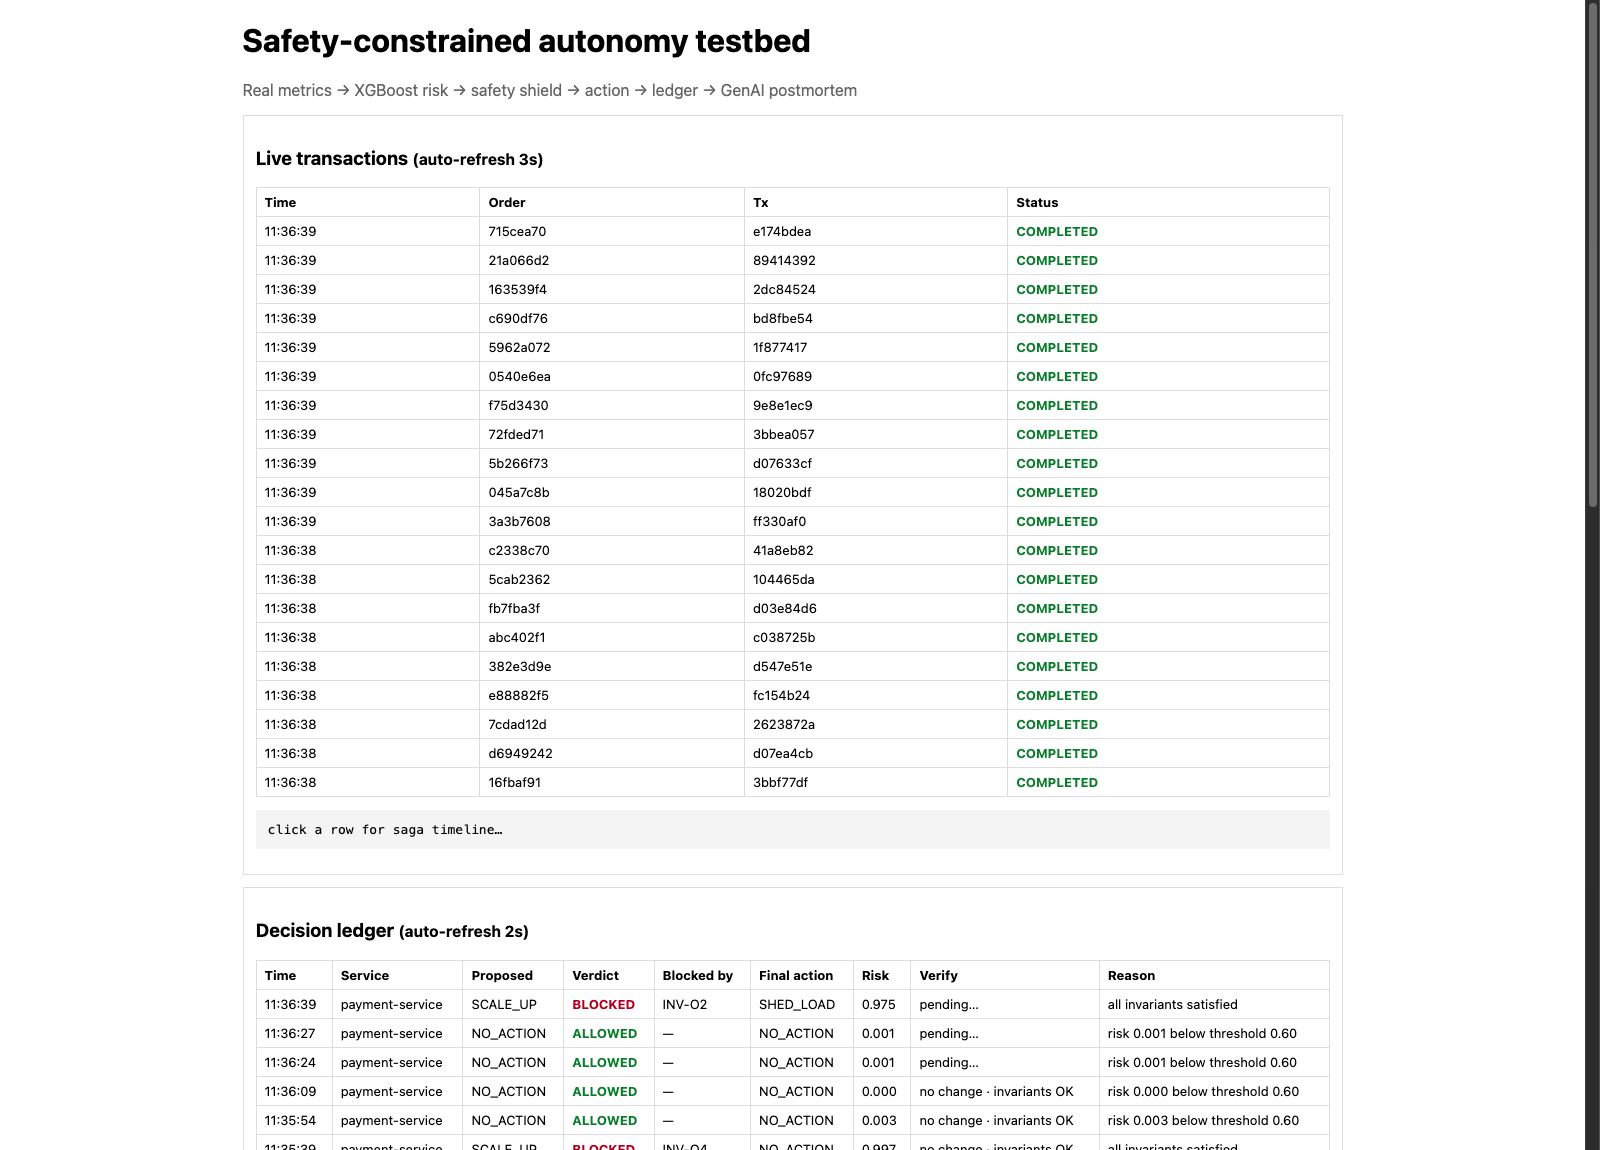
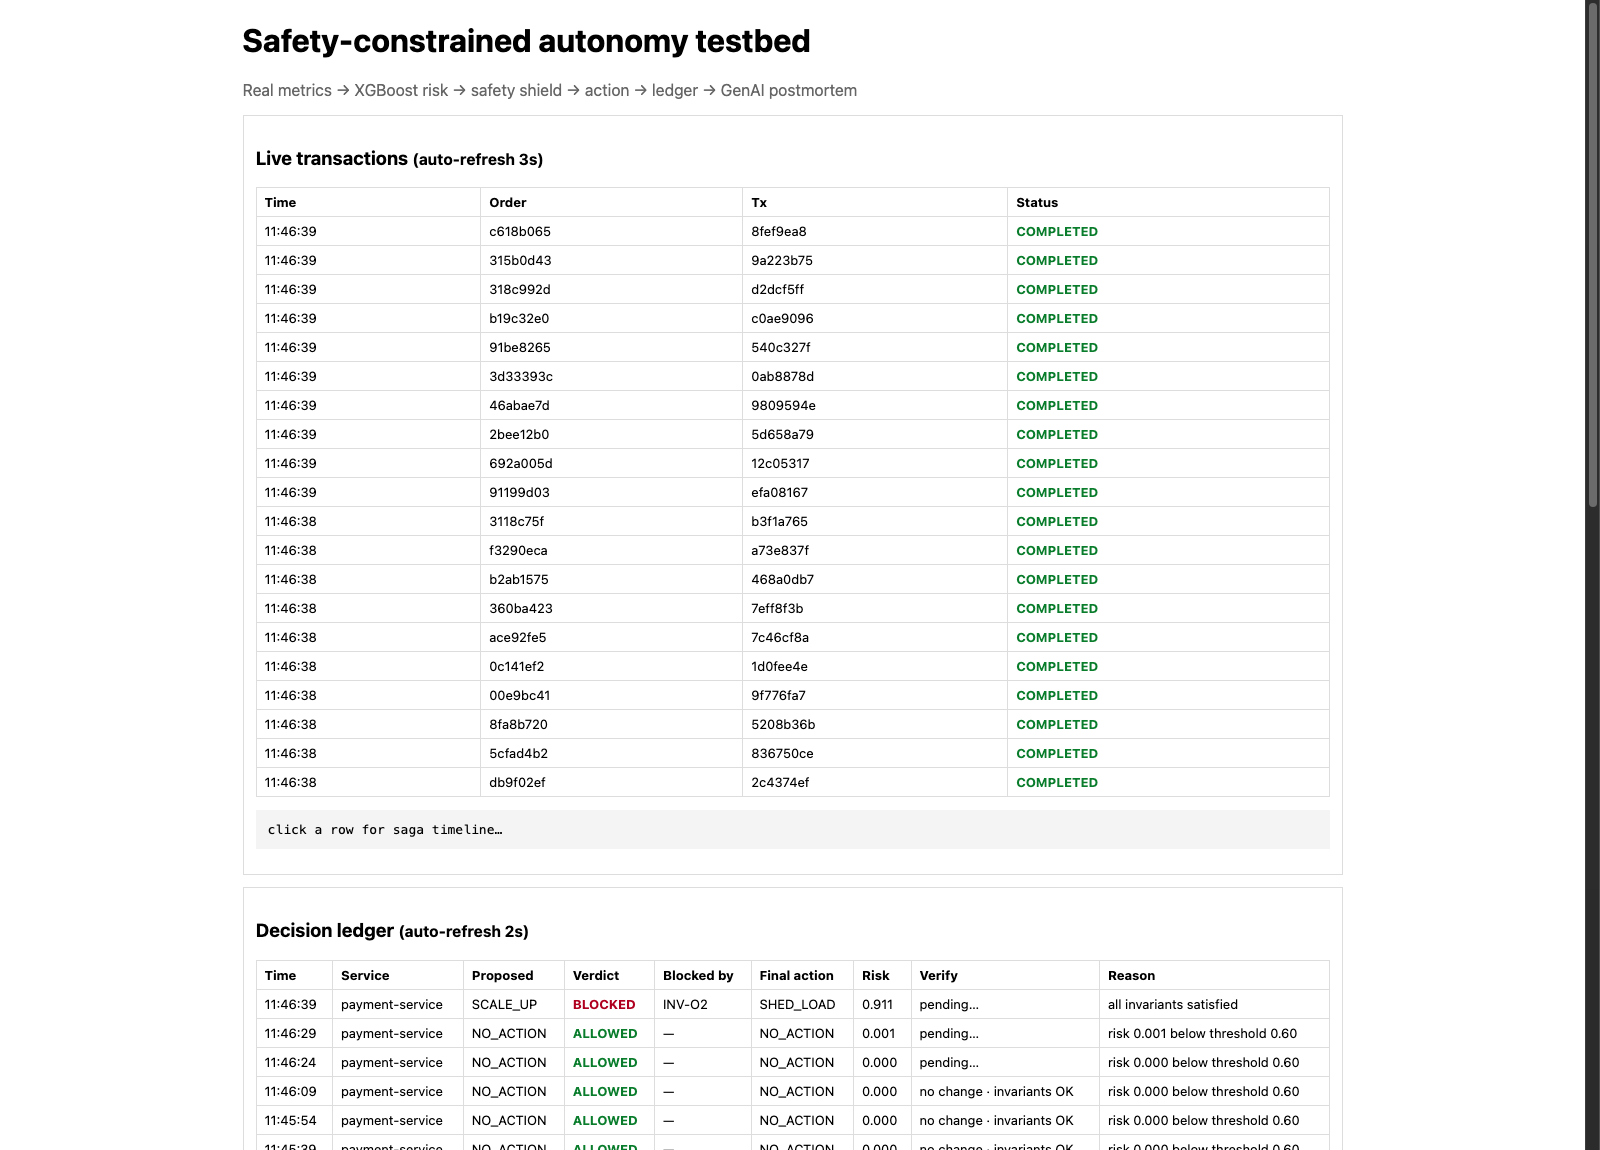
phase 7: final rehearsal, viva Q bank, refreshed fallback captures

diff --git a/docs/VIVA_QBANK.md b/docs/VIVA_QBANK.md
@@ -1,0 +1,100 @@
+# Viva Q bank — safety-constrained autonomy
+
+Short, conceptual answers. Do not walk through code during the viva; use the demo and this
+script. Ground every claim in something the demo actually shows.
+
+## 1. What is the problem you are solving?
+
+Autonomous remediation can make an incident worse. A classic threshold autoscaler sees rising
+latency and adds replicas; each new replica opens more database connections, so a DB bottleneck
+gets worse. We need a way to let a controller propose actions while formally refusing the unsafe
+ones.
+
+## 2. What was missing in prior solutions?
+
+- Threshold autoscalers: no notion of *why* latency rose, no safety check on the action.
+- Chaos tools: break things, but do not decide what to do about it.
+- LLM "SRE assistant" tools: explain after the fact, have no enforcement power, and can be wrong.
+- None of them produce an auditable record of what was proposed, what was vetoed, and why.
+
+## 3. What is your contribution?
+
+A deterministic **safety shield** that is the sole veto over a prediction-driven controller,
+plus a versioned invariant catalog, a decision ledger (proposal → verdict → action →
+verification), and fail-closed behaviour when any dependency is unavailable. The demo shows the
+shield refusing `SCALE_UP` on `INV-O2` and the controller falling through to `SHED_LOAD`.
+
+## 4. Why is the shield a separate service?
+
+It is pure: no DB, no clock, no randomness, no network. The caller supplies `now` and
+`decision_uid`, so the same input always gives the same verdict. Separating it makes the safety
+argument small, testable and independent of the controller's heuristics.
+
+## 5. Why does determinism matter?
+
+A safety check must be replayable and auditable. Given the same state snapshot, the verdict is
+reproducible, so an examiner can re-run `/evaluate` and get the same answer. We have a dedicated
+determinism test.
+
+## 6. Is ML allowed to act on its own?
+
+No. `ml-service` returns a failure probability and feature contributions. It cannot call an
+executor. The controller turns that signal into an ordered list of candidate actions; the shield
+decides which are allowed. Prediction is a signal, never authority.
+
+## 7. What if the shield or the ML service is down?
+
+Fail closed. The controller records `FAIL_CLOSED` with `NO_ACTION` and executes nothing. There is
+no "allow because the shield was slow" path.
+
+## 8. What is `decision_uid` for?
+
+It makes a decision idempotent. The shield checks that one is present; the ledger's primary key
+enforces uniqueness; and the controller persists the ledger row **before** executing anything.
+A repeated cycle cannot execute the same decision twice.
+
+## 9. Why `SHED_LOAD` rather than `SCALE_UP` here?
+
+`INV-O2` says that when DB connections are at/above the ceiling, adding replicas would add more
+connections. Shedding load reduces incoming work without touching the database pool. The demo
+shows the gateway returning real 503s and p95 dropping afterwards.
+
+## 10. Why XGBoost, and is the evaluation honest?
+
+It is fast on tabular telemetry and gives feature contributions. We used a time-based split and
+compared against a trivial `db_conn_pct >= 0.55` rule: classifier F1 **0.960 / ROC-AUC 0.996**
+versus baseline F1 **0.660 / ROC-AUC 0.767**. Training data is **simulated** — we say so openly.
+
+## 11. What role does the LLM play?
+
+Advisory only. It reads real incident and saga evidence and writes a postmortem with claims
+labelled FACT / PREDICTION / INFERENCE / RECOMMENDATION. It has no infrastructure permissions and
+is not in the control path. No mock LLM is used.
+
+## 12. What are the main limitations?
+
+One Mac, one testbed, one controller replica, injected faults and simulated training data. No
+real cloud scaling, no outbox poller/consumers/idempotency enforcement/crash-resume, no regions
+or failover, no RAG corpus, no N≥5 experiment suite, no production claims. The decision ledger is
+not yet in the LLM's evidence bundle.
+
+## 13. What is genuinely novel versus assembled?
+
+The assembled parts (saga, metrics, XGBoost, LLM) are standard. The contribution is the
+composition: **prediction proposes, a pure invariant shield vetoes, a ledger records, and the
+LLM only explains.** That separation is the thesis.
+
+## 14. Walk me through the 2-minute demo
+
+1. "Orders flow through a saga; real `/metrics` show p95 and DB connections low, risk low."
+2. "I inject DB latency. Connections saturate, p95 rises, the XGBoost risk score climbs."
+3. "The controller proposes `SCALE_UP`. The shield blocks it on `INV-O2`; the ledger shows the
+   veto; the controller executes `SHED_LOAD`."
+4. "New orders get real 503s and latency recovers. Verification is written to the ledger."
+5. "A live OpenRouter postmortem explains the incident — advisory only, never in the control path."
+6. "A threshold-only scaler would have scaled up here. The shield refused."
+
+## 15. If a component fails during the viva
+
+Use the fallbacks in `docs/TOMORROW.md` §6 and the real screenshots in `docs/screenshots/`.
+Never fabricate a verdict or a result.

diff --git a/docs/TOMORROW.md b/docs/TOMORROW.md
@@ -378,8 +378,10 @@ waits out any cooldown from a previous run — no manual DB edits — then drive
 |-----|----------|--------------|-----------|------------|
 | A | 115 s | `11:34:39 SCALE_UP → BLOCKED/INV-O2 → SHED_LOAD`, verified `improved=true` | 1303 / 1600 | live, `cached=false` |
 | B | 105 s | `11:36:39 SCALE_UP → BLOCKED/INV-O2 → SHED_LOAD`, verified `improved=true` | 1125 / 1600 | live, `cached=false` |
+| Final (after clean `make up`) | 105 s | `11:46:39 SCALE_UP → BLOCKED/INV-O2 → SHED_LOAD`, verified `improved=true` | 1151 / 1600 | live, `cached=false` |
 
-Both runs under 6 minutes. Fallback captures: `docs/screenshots/ledger.png`,
+All runs under 6 minutes. Final resource check: 13/13 containers up, 10 CPUs, 53% RAM free.
+Viva answers: `docs/VIVA_QBANK.md`. Fallback captures: `docs/screenshots/ledger.png`,
 `docs/screenshots/postmortem.png` (real headless-Chrome captures of the live UI/report).
 
 Integration bugs found and fixed during rehearsal:
